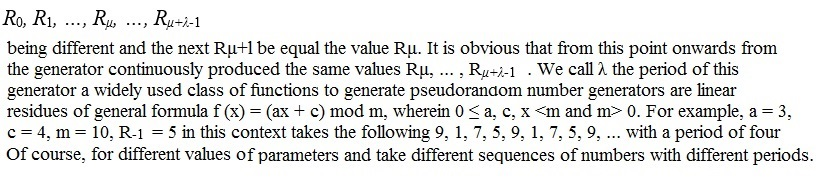
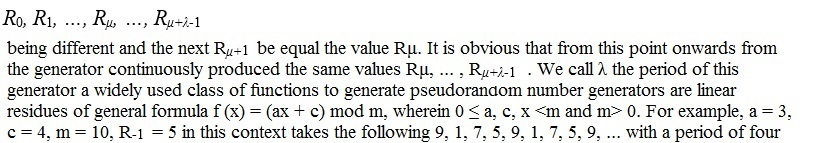
edit readme

diff --git a/README.md b/README.md
@@ -13,6 +13,8 @@ This, in mathematical terms, means that there are two numbers μ and λ, such th
 
 ![R.](https://github.com/GeorgePapageorgakis/random-number-generator-period-detection/blob/master/Ri2.jpg)
 
+Of course, for different values of parameters and take different sequences of numbers with different periods.
+
 The purpose is to detect the period of a pseudorandom number generator. More specifically, given a linear generator remainder,
 it produces consecutive numbers of the sequence and as soon as it finds the first value that is equal to a previous value, it 
 stops and returns the number of steps intervening between these two same values. A key feature in this technique is to determine
